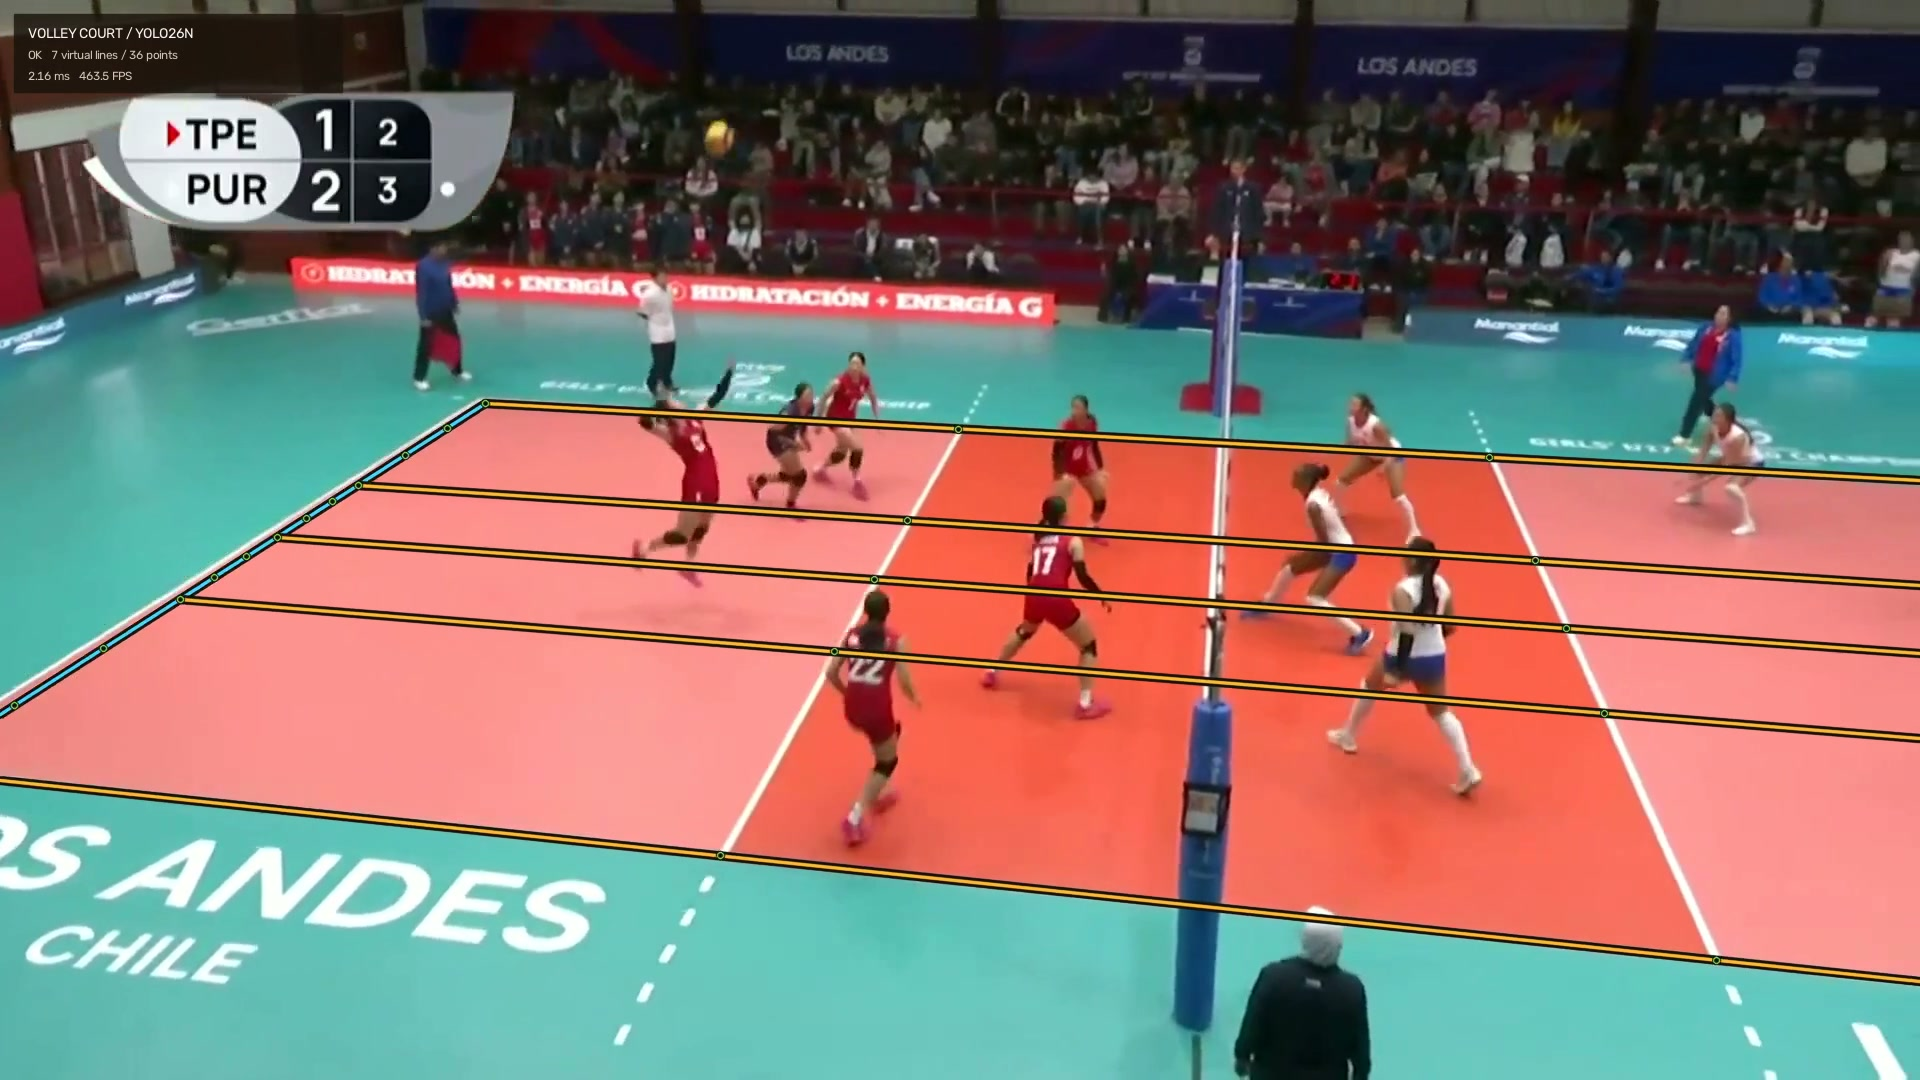
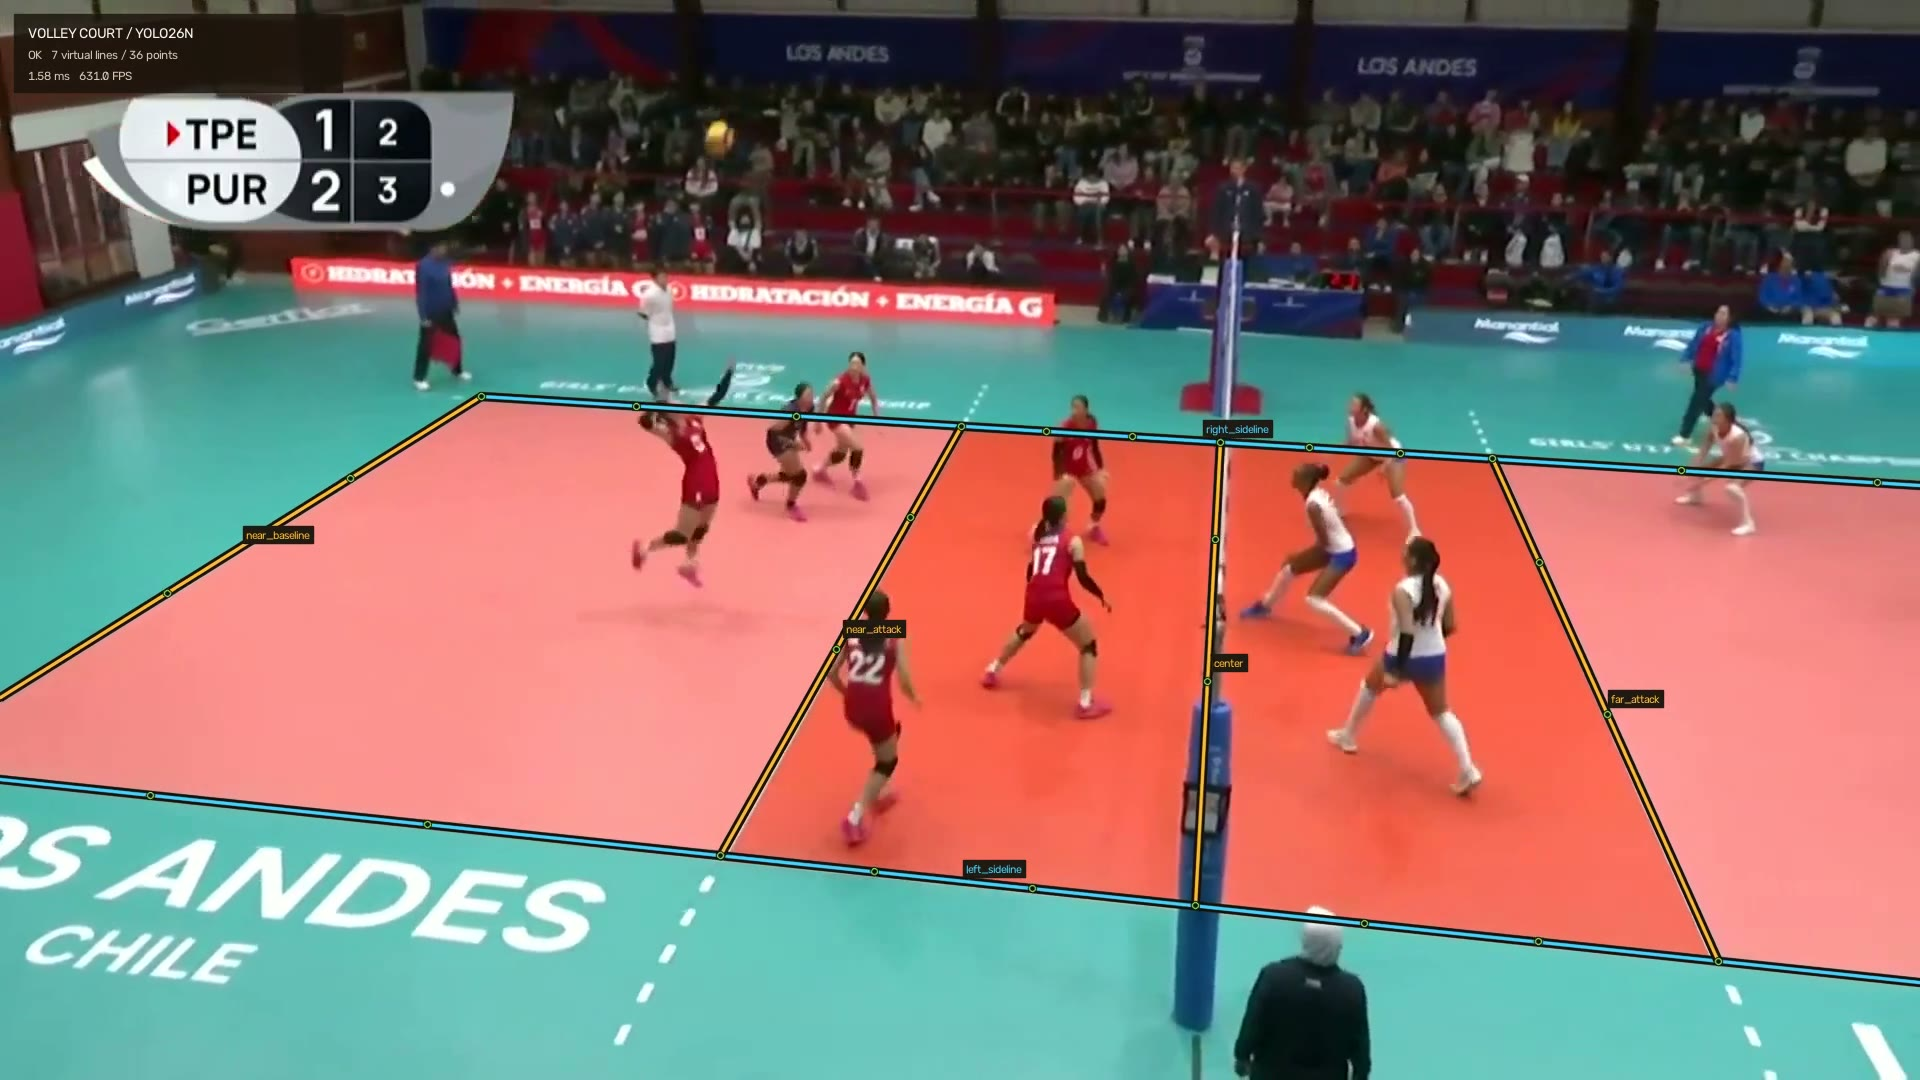
docs: sync v2 showcase assets

diff --git a/README.md b/README.md
@@ -93,7 +93,7 @@ a fallback and is not recommended for web previews.
 | [v1 rollback checkpoint](https://assets.hsulab.net/models/volley-court-lines/v1/court-line-yolo26n-v3.pt) | production rollback only | `b0392c...19e86` |
 | [Synthetic dataset](https://assets.hsulab.net/datasets/volley-court-lines/v1/court36-synthetic-combined-2000-camera-mode-v2.tar.gz) | 2,000 Blender images | `5f8fa0...78569` |
 | [Real dataset](https://assets.hsulab.net/datasets/volley-court-lines/v1/court36-unified.tar.gz) | 357 real images | `a40be9...12a4c` |
-| [v2 demo video](https://assets.hsulab.net/demos/volley-court-lines/v2/clip-volley-court-lines-v2-final.mp4) | 1080p H.264 High/yuv420p/AAC/faststart | `72c8cc...7803` |
+| [v2 demo video](https://assets.hsulab.net/demos/volley-court-lines/v2/clip-volley-court-lines-v2-final.mp4) | 1080p H.264 High/yuv420p/AAC/faststart | `fa7b62...1676` |
 
 Full checksums and dataset structure are in [docs/datasets.md](docs/datasets.md).
 
@@ -106,10 +106,12 @@ direct-layout verification, and result construction.
 | --- | ---: | ---: | ---: | ---: |
 | RTX 5070, direct layout | 1 | 106.24 | 73.69 | 12.93 ms p50 / 18.41 ms p95 |
 | H100 NVL, direct layout | 1 | 152.43 | 86.68 | 10.16 ms p50 / 26.17 ms p95 |
-| RTX 5070, 1080p H.264 demo | 8 | 375.28 model/decode | 57.87 end-to-end | layout inferred every frame |
+| RTX 5070, 1080p H.264 demo | 8 | 393.83 model/decode | 62.74 end-to-end | layout inferred every frame |
 
 The H100 and RTX 5070 rows use different source videos and benchmark harness revisions; they are
-operational measurements, not a claim that one GPU is universally faster. See
+operational measurements, not a claim that one GPU is universally faster. The browser-safe demo was
+regenerated after the temporal identity matcher fix: 769 frames were accepted and 115 frames
+abstained, with no ambiguous layout. See
 [docs/benchmarks.md](docs/benchmarks.md) for methodology, raw JSON, memory use, and hardware
 specifications.
 

diff --git a/docs/benchmarks.md b/docs/benchmarks.md
@@ -33,17 +33,19 @@ latency. These are operational measurements, not a controlled comparison of GPU 
 
 ## Browser-safe demo
 
-The 14.75-second 1920x1080 demo was generated by the installed CLI with batch 8 while the direct
-head ran on every one of 884 source frames.
+The 14.75-second 1920x1080 demo was regenerated by the installed CLI with batch 8 while the direct
+head ran on every one of 884 source frames. The regenerated asset includes the temporal identity
+matcher that prevents one-frame left/right or near/far layout swaps.
 
 | Path | Value |
 | --- | ---: |
-| model + decode | 375.28 FPS |
-| visualization + H.264/AAC encode | 57.87 FPS |
-| layout statuses | 648 ok / 121 ambiguous / 115 abstained |
+| model + decode | 393.83 FPS |
+| visualization + H.264/AAC encode | 62.74 FPS |
+| layout statuses | 769 ok / 0 ambiguous / 115 abstained |
 | output | H.264 High, yuv420p, AAC, MP4 faststart |
 
 [Play the generated demo](https://assets.hsulab.net/demos/volley-court-lines/v2/clip-volley-court-lines-v2-final.mp4).
+The machine-readable report is [`benchmarks/video-v2-demo.json`](../benchmarks/video-v2-demo.json).
 The visual gate additionally inspected 12 contact sheets across four fixed videos, with five
 consecutive source frames in every sheet.
 

diff --git a/docs/model-card.md b/docs/model-card.md
@@ -58,6 +58,10 @@ safety behavior, not full-court recall.
 
 ![Five consecutive accepted frames](assets/direct-layout-v2-five-frames.jpg)
 
+The published browser-safe demo was regenerated after the temporal identity matcher update. It runs
+the direct head on all 884 source frames, accepts 769 stable layouts, and abstains on 115
+insufficient views; no frame is marked ambiguous in that demo.
+
 ## Training lineage
 
 The dense production model was first adapted on 2,000 Blender images and 357 real images. The direct
